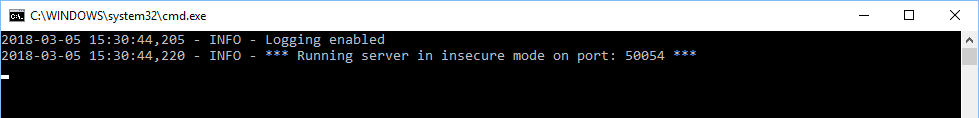
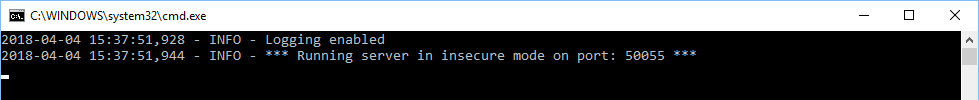
Work in progress

diff --git a/core/__main__.py b/core/__main__.py
@@ -22,7 +22,7 @@ from _prophet_forecast import ProphetForQlik
 from _clustering import HDBSCANForQlik
 
 # Set the default port for this SSE Extension
-_DEFAULT_PORT = '50054'
+_DEFAULT_PORT = '50055'
 
 _ONE_DAY_IN_SECONDS = 60 * 60 * 24
 _MINFLOAT = float('-inf')
@@ -93,8 +93,16 @@ class ExtensionService(SSE.ConnectorServicer):
         # Calculate the clusters and store in a Pandas series (or DataFrame in the case of a load script call)
         clusters = clusterer.scan()
         
-        # Values in the response object are converted to type SSE.Dual
-        response_rows = clusters.apply(lambda result: iter([SSE.Dual(numData=result)]))
+        if isinstance(clusters, pd.DataFrame):
+            # If the output is a dataframe the columns returned will be ['dim1', 'result']
+            response_rows = pd.DataFrame(columns=clusters.columns)
+            
+            # Values in these columns are converted to type SSE.Dual
+            response_rows.loc[:,'dim1'] = clusters.loc[:,'dim1'].apply(lambda s: iter([SSE.Dual(strData=s)]))
+            response_rows.loc[:,'result'] = clusters.loc[:,'result'].apply(lambda n: iter([SSE.Dual(numData=n)]))
+        else:
+            # Values in the response object are converted to type SSE.Dual
+            response_rows = clusters.apply(lambda n: iter([SSE.Dual(numData=n)]))
         
         # Values are then structured as SSE.Rows
         # The response is then converted to a list
@@ -123,8 +131,16 @@ class ExtensionService(SSE.ConnectorServicer):
         # Calculate the clusters and store in a Pandas series (or DataFrame in the case of a load script call)
         clusters = clusterer.scan()
         
-        # Values in the response object are converted to type SSE.Dual
-        response_rows = clusters.apply(lambda result: iter([SSE.Dual(numData=result)]))
+        if isinstance(clusters, pd.DataFrame):
+            # If the output is a dataframe the columns returned will be ['dim1', 'result']
+            response_rows = pd.DataFrame(columns=clusters.columns)
+            
+            # Values in these columns are converted to type SSE.Dual
+            response_rows.loc[:,'dim1'] = clusters.loc[:,'dim1'].apply(lambda s: iter([SSE.Dual(strData=s)]))
+            response_rows.loc[:,'result'] = clusters.loc[:,'result'].apply(lambda n: iter([SSE.Dual(numData=n)]))
+        else:
+            # Values in the response object are converted to type SSE.Dual
+            response_rows = clusters.apply(lambda n: iter([SSE.Dual(numData=n)]))
         
         # Values are then structured as SSE.Rows
         # The response is then converted to a list
@@ -152,8 +168,16 @@ class ExtensionService(SSE.ConnectorServicer):
         # Calculate the clusters and store in a Pandas series (or DataFrame in the case of a load script call)
         clusters = clusterer.scan()
         
-        # Values in the response object are converted to type SSE.Dual
-        response_rows = clusters.apply(lambda result: iter([SSE.Dual(numData=result)]))
+        if isinstance(clusters, pd.DataFrame):
+            # If the output is a dataframe the columns returned will be ['dim1', 'result']
+            response_rows = pd.DataFrame(columns=clusters.columns)
+            
+            # Values in these columns are converted to type SSE.Dual
+            response_rows.loc[:,'dim1'] = clusters.loc[:,'dim1'].apply(lambda s: iter([SSE.Dual(strData=s)]))
+            response_rows.loc[:,'result'] = clusters.loc[:,'result'].apply(lambda n: iter([SSE.Dual(numData=n)]))
+        else:
+            # Values in the response object are converted to type SSE.Dual
+            response_rows = clusters.apply(lambda n: iter([SSE.Dual(numData=n)]))
         
         # Values are then structured as SSE.Rows
         # The response is then converted to a list

diff --git a/core/_clustering.py b/core/_clustering.py
@@ -113,8 +113,8 @@ class HDBSCANForQlik:
         self.clusterer.fit(self.input_df)
              
         # Prepare the output Data Frame
-        self.response = pd.DataFrame(getattr(self.clusterer, self.result_type), index=input_df.index, columns=['result'])
-        self.response['dim1'] = input_df.index
+        self.response = pd.DataFrame(getattr(self.clusterer, self.result_type), index=self.input_df.index, columns=['result'])
+        self.response['dim1'] = self.input_df.index
         self.response = self.response.loc[:, ['dim1', 'result']]
         
         # Add the null value rows back to the response
@@ -327,7 +327,7 @@ class HDBSCANForQlik:
                
         # Set up a list of possible key word arguments for the sklearn preprocessing functions
         scaler_params = ['with_mean', 'with_std', 'feature_range', 'with_centering', 'with_scaling',\
-                        'quantile_range', 'n_quantiles', 'output_distribution', 'ignore_implicit_zeros'\
+                        'quantile_range', 'n_quantiles', 'output_distribution', 'ignore_implicit_zeros',\
                         'subsample', 'random_state']
         
         # Create dictionary of key word arguments for the scaler functions
@@ -390,7 +390,7 @@ class HDBSCANForQlik:
         
         elif step == 2:
             # Output the request and input data frames to the terminal
-            sys.stdout.write("Additional parameters: {0}\n\n".format(self.kwargs))
+            sys.stdout.write("Key word arguments: {0}\n\n".format(self.kwargs))
             sys.stdout.write("HDBSCAN parameters: {0}\n\n".format(self.hdbscan_kwargs))
             sys.stdout.write("{0} scaler parameters: {1}\n\n".format(self.scaler.capitalize(), self.scaler_kwargs))
             sys.stdout.write("REQUEST DATA FRAME: {0} rows x cols\n\n".format(self.request_df.shape))
@@ -403,7 +403,7 @@ class HDBSCANForQlik:
                         
             # Output the request and input data frames to the log file 
             with open(self.logfile,'a') as f:
-                f.write("Additional parameters: {0}\n\n".format(self.kwargs))
+                f.write("Key word arguments: {0}\n\n".format(self.kwargs))
                 f.write("HDBSCAN parameters: {0}\n\n".format(self.hdbscan_kwargs))
                 f.write("{0} scaler parameters: {1}\n\n".format(self.scaler.capitalize(), self.scaler_kwargs))
                 f.write("REQUEST DATA FRAME: {0} rows x cols\n\n".format(self.request_df.shape))

diff --git a/core/_utils.py b/core/_utils.py
@@ -71,5 +71,6 @@ def scale(df, missing="zeros", scaler="robust", **kwargs):
     s = s(**kwargs)
     
     df = fillna(df, method=missing)
+    df = pd.DataFrame(s.fit_transform(df), index=df.index, columns=df.columns)
     
-    return s.fit_transform(df)
+    return df

diff --git a/README.md b/README.md
@@ -33,7 +33,7 @@ For more information on Qlik Server Side Extensions see [qlik-oss](https://githu
 
 4. Double click `Qlik-Py-Init.bat` in the repository files and let it do it's thing. You can open this file in a text editor to review the commands that will be executed. If everything goes smoothly you will see a Python virtual environment being set up and some packages being installed. Once the execution completes, do a quick scan of the log to see everything installed correctly. The libraries imported are: `grpcio`, `numpy`, `scipy`, `pandas`, `fbprophet`.
 
-5. Now whenever you want to start this Python service you can run `Qlik-Py-Start.bat`. You should see the message below once the service is up. If you get an error or no output check your firewall's inbound settings. You may need an inbound rule to open up port `50054`. If you need to change the port you can do so in the file `core\__main__.py` by opening the file with a text editor and changing the value of the `_DEFAULT_PORT` variable.
+5. Now whenever you want to start this Python service you can run `Qlik-Py-Start.bat`. You should see the message below once the service is up. If you get an error or no output check your firewall's inbound settings. You may need an inbound rule to open up port `50055`. If you need to change the port you can do so in the file `core\__main__.py` by opening the file with a text editor and changing the value of the `_DEFAULT_PORT` variable.
 
 6. Now you need to [set up an Analytics Connection in Qlik Sense Enterprise](https://help.qlik.com/en-US/sense/February2018/Subsystems/ManagementConsole/Content/create-analytic-connection.htm) or [update the Settings.ini file in Qlik Sense Desktop](https://help.qlik.com/en-US/sense/February2018/Subsystems/Hub/Content/Introduction/configure-analytic-connection-desktop.htm).
 

diff --git a/docs/README.md b/docs/README.md
@@ -33,7 +33,7 @@ For more information on Qlik Server Side Extensions see [qlik-oss](https://githu
 
 4. Double click `Qlik-Py-Init.bat` in the repository files and let it do it's thing. You can open this file in a text editor to review the commands that will be executed. If everything goes smoothly you will see a Python virtual environment being set up and some packages being installed. Once the execution completes, do a quick scan of the log to see everything installed correctly. The libraries imported are: `grpcio`, `numpy`, `scipy`, `pandas`, `fbprophet`.
 
-5. Now whenever you want to start this Python service you can run `Qlik-Py-Start.bat`. You should see the message below once the service is up. If you get an error or no output check your firewall's inbound settings. You may need an inbound rule to open up port `50054`. If you need to change the port you can do so in the file `core\__main__.py` by opening the file with a text editor and changing the value of the `_DEFAULT_PORT` variable.
+5. Now whenever you want to start this Python service you can run `Qlik-Py-Start.bat`. You should see the message below once the service is up. If you get an error or no output check your firewall's inbound settings. You may need an inbound rule to open up port `50055`. If you need to change the port you can do so in the file `core\__main__.py` by opening the file with a text editor and changing the value of the `_DEFAULT_PORT` variable.
 
 6. Now you need to [set up an Analytics Connection in Qlik Sense Enterprise](https://help.qlik.com/en-US/sense/February2018/Subsystems/ManagementConsole/Content/create-analytic-connection.htm) or [update the Settings.ini file in Qlik Sense Desktop](https://help.qlik.com/en-US/sense/February2018/Subsystems/Hub/Content/Introduction/configure-analytic-connection-desktop.htm).
 
